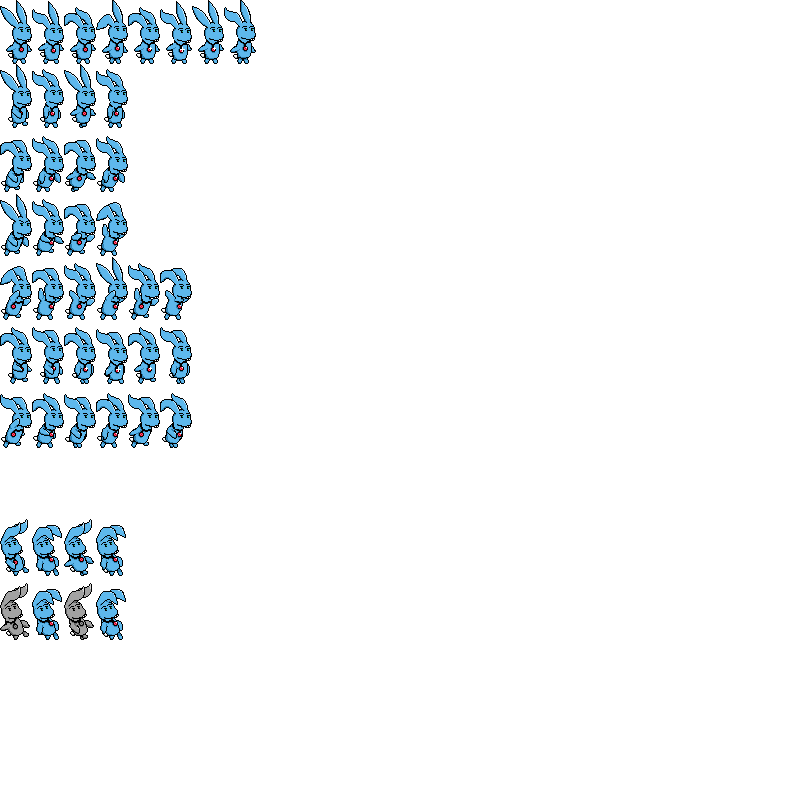
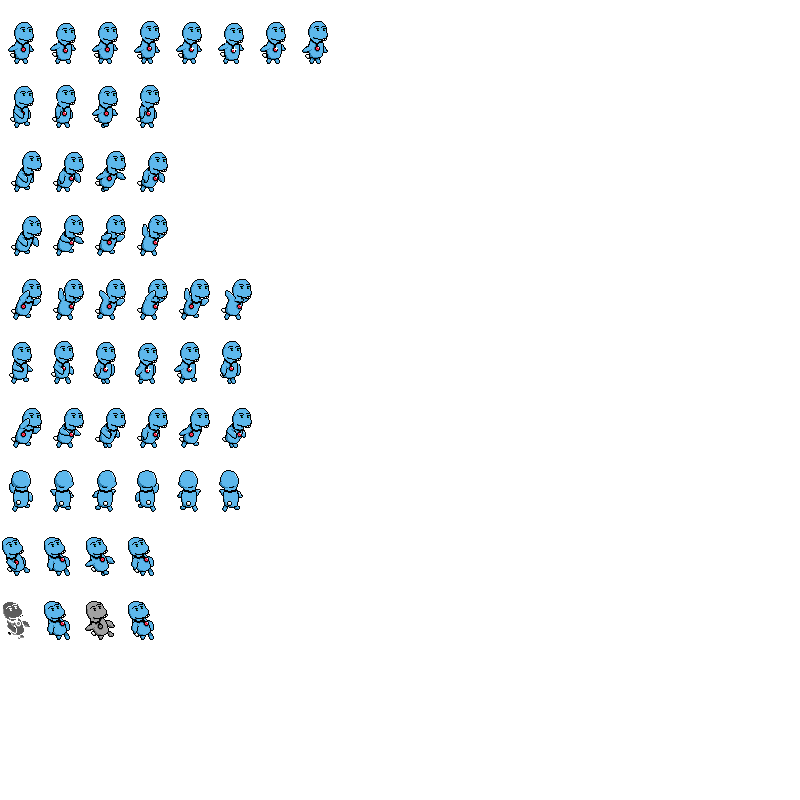
Changed over to new sprite sheets separating the characters ears from the body, currently the ears are not showing up, still trying to sort out why that image is not blitting to the screen correctly.

Changed region(s): [[0.0, 0.0, 0.4062, 0.5625], [0.0, 0.5938, 0.3125, 0.8125]]

diff --git a/player.py b/player.py
@@ -8,17 +8,17 @@ class Player(Character):
         animTypes = 'idle_right walk_right run_right jump_right fall_right tred_right swim_right stop_right ' \
                     'damage_right'.split()
         self.placeholder = self.sheet.subsurface(0, 0, 32, 64)
-        self.animSurf, self.hitmask_dict = self.get_images(self.sheet, animTypes, 32, 64)
+        self.animSurf, self.hitmask_dict = self.get_images(self.sheet, animTypes, 42, 64)
         self.image = self.animSurf['idle_right'].getCurrentFrame()
         super(Player, self).__init__(lvl, loc)
         self.rect.center = loc
         self.dead = False
         
-    def update(self, dt, lvl, key, joy):
+    def update(self, dt, lvl, key, joy, screen):
         self.get_events(key, joy)
         self.move()
         self.inertia()
-        super(Player, self).update(dt, lvl, key, joy)
+        super(Player, self).update(dt, lvl, key, joy, screen)
         lvl.tilemap.set_focus(self.rect.centerx, self.rect.centery)
         self.max_speed = 3
         self.jmp_damage(lvl)
@@ -27,28 +27,34 @@ class Player(Character):
         #setting directions for idle
         if self.dir == 'left':
             self.image = self.animSurf['idle_left'].getCurrentFrame()
-            self.hitmask = self.hitmask_dict['idle_left'][self.animSurf['idle_left']._propGetCurrentFrameNum()]
+            frame = self.animSurf['idle_left']._propGetCurrentFrameNum()
+            self.hitmask = self.hitmask_dict['idle_left'][frame]
         if self.dir == 'right':
             self.image = self.animSurf['idle_right'].getCurrentFrame()
-            self.hitmask = self.hitmask_dict['idle_right'][self.animSurf['idle_right']._propGetCurrentFrameNum()]
+            frame = self.animSurf['idle_right']._propGetCurrentFrameNum()
+            self.hitmask = self.hitmask_dict['idle_right'][frame]
         if self.run:
             self.max_speed = 6
         if self.direction == 'left':
             if abs(self.x_vel) > 1:
-                self.image = self.animSurf['walk_left'].getCurrentFrame()
-                self.hitmask = self.hitmask_dict['walk_left'][self.animSurf['walk_left']._propGetCurrentFrameNum()]
+                self.image = self.animSurf['walk_left'].getCurrentFrame().copy()
+                frame = self.animSurf['walk_left']._propGetCurrentFrameNum()
+                self.hitmask = self.hitmask_dict['walk_left'][frame]
             if abs(self.x_vel) > 4:
-                self.image = self.animSurf['run_left'].getCurrentFrame()
-                self.hitmask = self.hitmask_dict['run_left'][self.animSurf['run_left']._propGetCurrentFrameNum()]
+                self.image = self.animSurf['run_left'].getCurrentFrame().copy()
+                frame = self.animSurf['run_left']._propGetCurrentFrameNum()
+                self.hitmask = self.hitmask_dict['run_left'][frame]
             self.dir = 'left'
             self.x_vel -= self.speed
         if self.direction == 'right':
             if self.x_vel > 1:
-                self.image = self.animSurf['walk_right'].getCurrentFrame()
-                self.hitmask = self.hitmask_dict['walk_right'][self.animSurf['walk_right']._propGetCurrentFrameNum()]
+                self.image = self.animSurf['walk_right'].getCurrentFrame().copy()
+                frame = self.animSurf['walk_right']._propGetCurrentFrameNum()
+                self.hitmask = self.hitmask_dict['walk_right'][frame]
             if self.x_vel > 4:
-                self.image = self.animSurf['run_right'].getCurrentFrame()
-                self.hitmask = self.hitmask_dict['run_right'][self.animSurf['run_right']._propGetCurrentFrameNum()]
+                self.image = self.animSurf['run_right'].getCurrentFrame().copy()
+                frame = self.animSurf['run_right']._propGetCurrentFrameNum()
+                self.hitmask = self.hitmask_dict['run_right'][frame]
             self.dir = 'right'
             self.x_vel += self.speed
 
@@ -112,3 +118,48 @@ class Player(Character):
     def check_alive(self):
         if self.hp <= 0:
             self.dead = True
+
+
+class Ears(Character):
+    def __init__(self, lvl, loc, *groups):
+        super(Character, self).__init__(*groups)
+        self.sheet = pygame.image.load('images/char_ears.png').convert_alpha()
+        self.placeholder = self.sheet.subsurface(0, 0, 42, 64)
+        animTypes = 'idle_right walk_right run_right jump_right fall_right tred_right swim_right stop_right ' \
+                    'damage_right'.split()
+        self.animSurf, self.hitmask_dict = self.get_images(self.sheet, animTypes, 42, 64)
+        self.image = self.animSurf['idle_right'].getCurrentFrame()
+        #self.image = self.sheet.subsurface(0, 0, 42, 64)
+        super(Ears, self).__init__(lvl, loc)
+
+    def update(self, dt, lvl, key, joy, screen):
+        self.move(lvl)
+        #print 'test'
+
+    def move(self, lvl):
+        if lvl.hero.dir == 'left':
+            self.image = self.animSurf['idle_left'].getCurrentFrame()
+            frame = self.animSurf['idle_left']._propGetCurrentFrameNum()
+            self.hitmask = self.hitmask_dict['idle_left'][frame]
+        if lvl.hero.dir == 'right':
+            self.image = self.animSurf['idle_right'].getCurrentFrame()
+            frame = self.animSurf['idle_right']._propGetCurrentFrameNum()
+            self.hitmask = self.hitmask_dict['idle_right'][frame]
+        if lvl.hero.direction == 'left':
+            if abs(lvl.hero.x_vel) > 1:
+                self.image = self.animSurf['walk_left'].getCurrentFrame().copy()
+                frame = self.animSurf['walk_left']._propGetCurrentFrameNum()
+                self.hitmask = self.hitmask_dict['walk_left'][frame]
+            if abs(lvl.hero.x_vel) > 4:
+                self.image = self.animSurf['run_left'].getCurrentFrame().copy()
+                frame = self.animSurf['run_left']._propGetCurrentFrameNum()
+                self.hitmask = self.hitmask_dict['run_left'][frame]
+        if lvl.hero.direction == 'right':
+            if lvl.hero.x_vel > 1:
+                self.image = self.animSurf['walk_right'].getCurrentFrame().copy()
+                frame = self.animSurf['walk_right']._propGetCurrentFrameNum()
+                self.hitmask = self.hitmask_dict['walk_right'][frame]
+            if lvl.hero.x_vel > 4:
+                self.image = self.animSurf['run_right'].getCurrentFrame().copy()
+                frame = self.animSurf['run_right']._propGetCurrentFrameNum()
+                self.hitmask = self.hitmask_dict['run_right'][frame]

diff --git a/level.py b/level.py
@@ -45,7 +45,7 @@ def load():
                     lvl.hero.jump_cut()
 
         key = pygame.key.get_pressed()
-        lvl.tilemap.update(dt, lvl, key, joysticks)
+        lvl.tilemap.update(dt, lvl, key, joysticks, screen)
         screen.fill((0, 100, 0))
         lvl.tilemap.draw(screen)
         pygame.display.set_caption("{} - FPS: {:.2f}".format("Zachariah", clock.get_fps()))
@@ -75,6 +75,7 @@ class Level(object):
         self.sprites = tmx.SpriteLayer()
         self.start_cell = self.tilemap.layers['spawns'].find('player')[0]
         self.hero = player.Player(self, (self.start_cell.px, self.start_cell.py), self.sprites)
+        self.hero_ear = player.Ears(self, (self.start_cell.px, self.start_cell.py-20), self.sprites)
         self.tilemap.layers.append(self.sprites)
         
         #Cell, rect, and mask dicts

diff --git a/monster.py b/monster.py
@@ -13,10 +13,10 @@ class Monster(Character):
         self.max_speed = 2
         self.jump_hit = 0
         
-    def update(self, dt, lvl, key, joy):
+    def update(self, dt, lvl, key, joy, screen):
         self.move()
         self.inertia()
-        super(Monster, self).update(dt, lvl, key, joy)
+        super(Monster, self).update(dt, lvl, key, joy, screen)
         
     def move(self):
         self.conductor.play()

diff --git a/platform.py b/platform.py
@@ -74,7 +74,7 @@ class Platform(pygame.sprite.Sprite):
                 sprite.plat_speed = self.x_vel
                 sprite.is_platform = True
 
-    def update(self, dt, level, key, joy):
+    def update(self, dt, level, key, joy, screen):
         #self.float(self.start)
         self.move(self.start)
         self.adjust_character_speed(level)

diff --git a/character.py b/character.py
@@ -25,7 +25,7 @@ class Character(pygame.sprite.Sprite):
         self.setup_collision_rects()
         self.hp = 3
 
-    def update(self, dt, lvl, key, joy):
+    def update(self, dt, lvl, key, joy, screen):
         self.check_alive()
         self.detect_wall(lvl)
         self.detect_ground(lvl)
